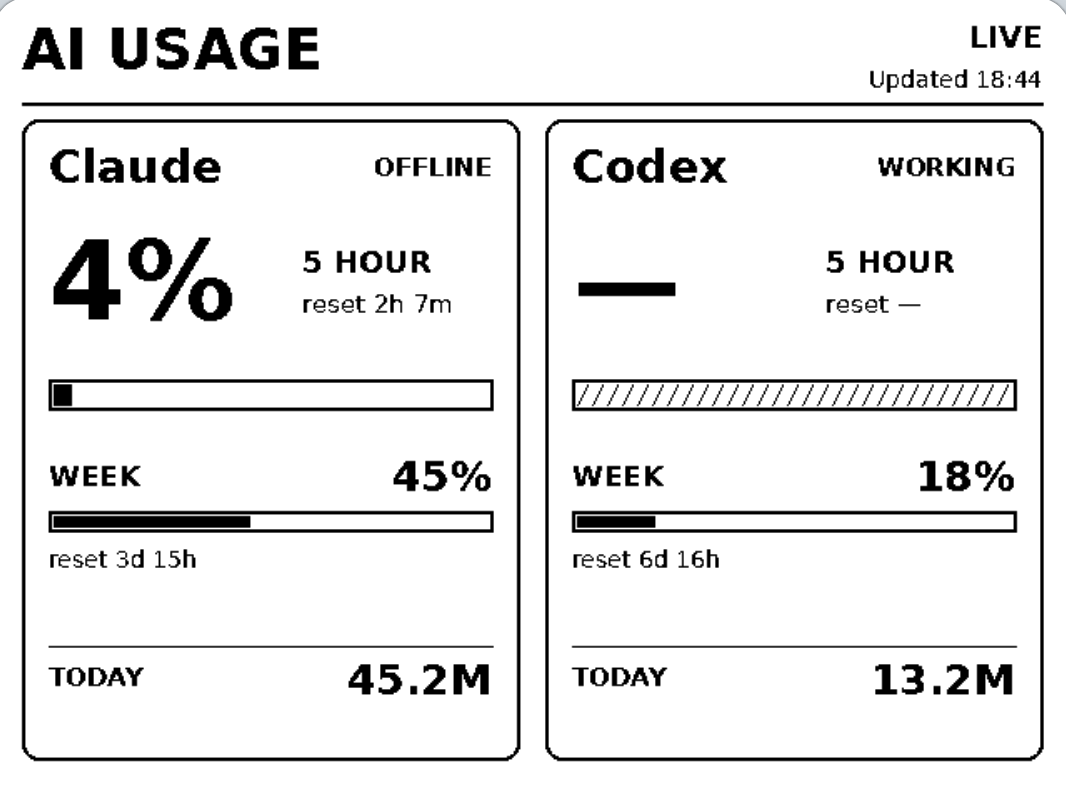
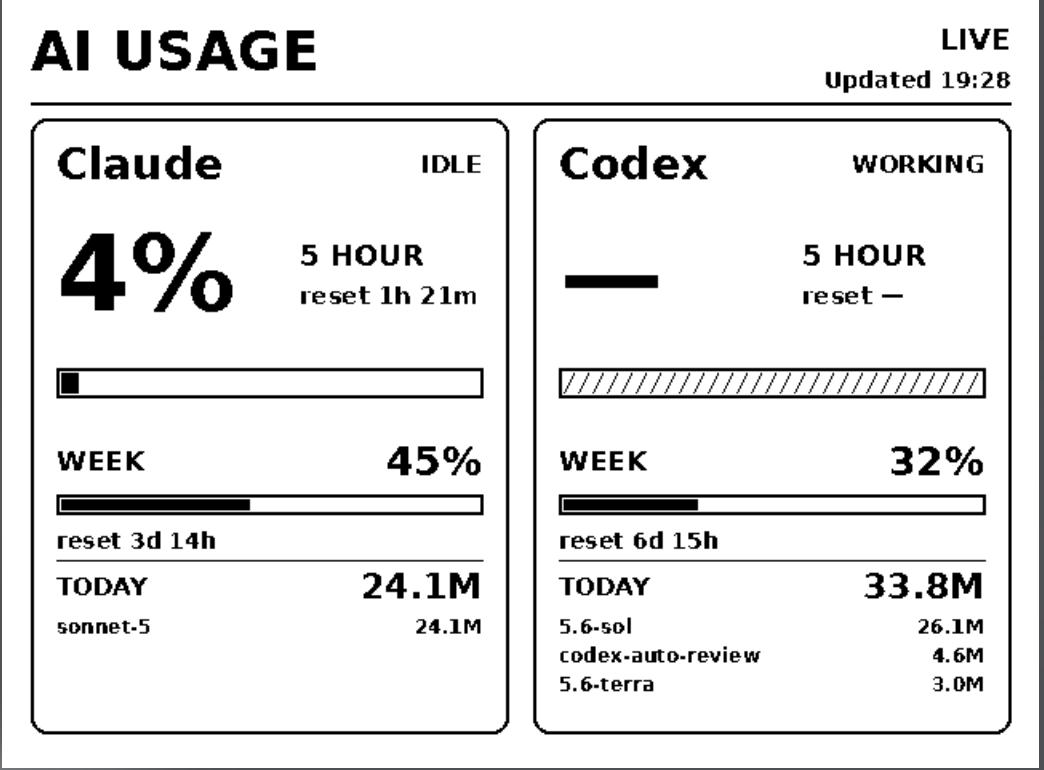
docs: update dashboard preview

diff --git a/README.md b/README.md
@@ -15,7 +15,7 @@ OAuth tokens and raw session logs never leave the Mac.
 
 ## Dashboard preview
 
-![Claude Code and Codex usage dashboard on the e-paper display](docs/images/dashboard-preview.png)
+![Bold Claude and Codex dashboard with per-model TODAY token usage](docs/images/dashboard-preview.png)
 
 ## Current scope
 
